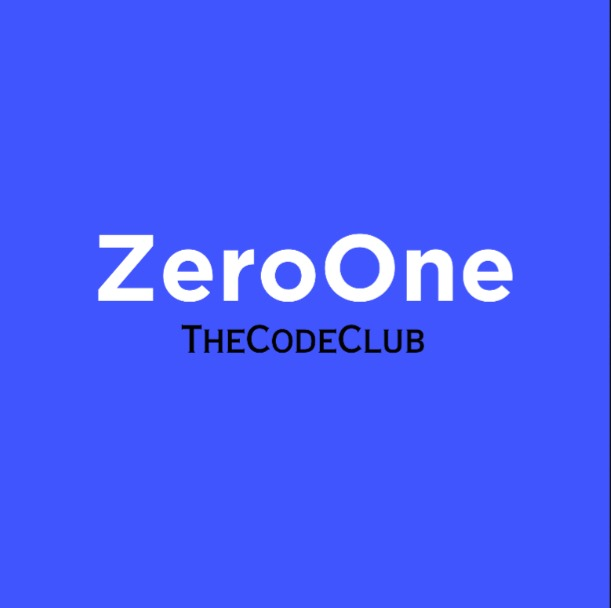
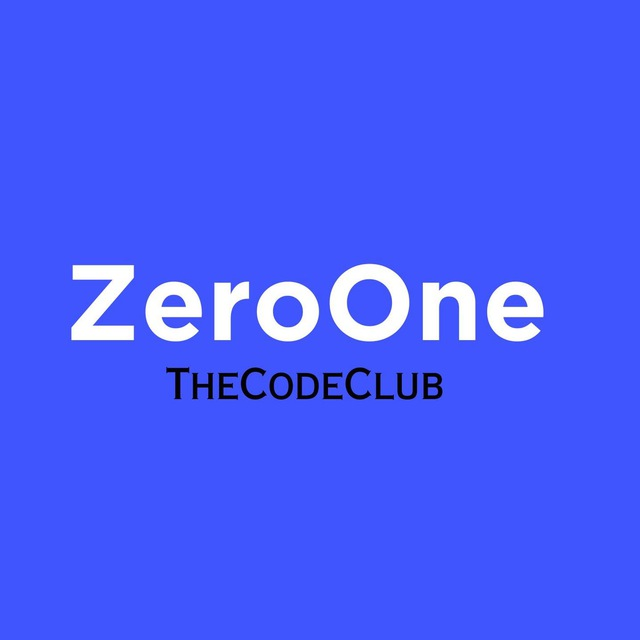
codeJam 2300031296

Changed region(s): [[0.0933, 0.375, 0.8707, 0.625], [0.9951, 0.0, 1.0, 1.0]]

diff --git a/Codejam/index.html b/Codejam/index.html
@@ -1,24 +1,29 @@
 <!DOCTYPE html>
 <html lang="en">
 <head>
-  <meta charset="UTF-8">
-  <meta name="viewport" content="width=device-width, initial-scale=1.0">
-  <title>CodeJam - ZeroOne</title>
-  <link rel="stylesheet" href="main.css">
+    <meta charset="UTF-8">
+    <meta name="viewport" content="width=device-width, initial-scale=1.0">
+    <title>CodeJam - ZeroOne</title>
+    <link rel="stylesheet" href="index.css">
 </head>
 <body>
-  <div class="container">
-    <div class="card">
-      <div class="card-one">
-        <img src="ZOCC_logo.png" alt="The ZeroOne Club Logo">
-      </div>
-      <div class="card-two">
-        <h1>ZeroOne Code Club</h1>
-        <h2>Student Activity Center</h2>
 
-        <a href="#">Join</a>
-      </div>
+
+    <div class="container">
+        <div class="card">
+            <div class="card-one">
+                <img src="ZeroOne.jpg" alt="">
+            </div>
+            <div class="card-two">
+                <h1>ZeroOne code club</h1>
+                <h2>Student activity center</h2>
+
+                <a href="#">Join</a>
+            </div>
+        </div>
     </div>
-  </div>
+    
+
+
 </body>
 </html>

diff --git a/Codejam/index.css b/Codejam/index.css
@@ -1,0 +1,53 @@
+*{
+ padding: 0;
+ margin:0;
+ box-sizing: border-box;
+}
+
+.container {
+    height: 100vh;
+    width: 100%;
+    display: flex;
+    align-items: center;
+    justify-content: center;
+
+}
+
+.card {
+    width: 20%;
+    display: flex;
+    flex-direction: column;
+}
+
+.card-one {
+    width: 100%;
+}
+.card-one img {
+    width: 100%;
+}
+
+.card-two {
+    width: 100%;
+    padding: 1rem;
+    
+    box-shadow: rgba(100, 100, 111, 0.2) 0px 7px 29px 0px;
+}
+
+.card-two h1 {
+    font-family: 'Franklin Gothic Medium', 'Arial Narrow', Arial, sans-serif;
+    font-size: 1.5rem;
+}
+.card-two h2 {
+    font-family: 'Franklin Gothic Medium', 'Arial Narrow', Arial, sans-serif;
+    font-size: 1.2rem;
+    margin: 1rem;
+    color: gray;
+}
+.card-two a {
+    font-family: 'Franklin Gothic Medium', 'Arial Narrow', Arial, sans-serif;
+text-decoration: none;
+background-color: black;
+color: white;
+padding: 5px 10px;
+
+}
